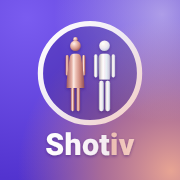
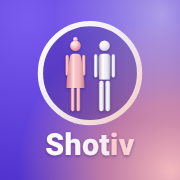
Pink gold palette from the product owner's reference
Colors sampled from the reference image (#EDA8AE..#FDE3E7, deep
#E3939A). The women's theme hero card is now light, glossy pink gold
with dark rose text for contrast; buttons use a deeper rose (#A8525E)
so white text stays readable. Splash woman figure, app icon and the
gain warning use the same pink gold.

Claude-Session: https://claude.ai/code/session_01APeqoeDRZRvZG1wpRJWPM8

Changed region(s): [[0.6111, 0.6944, 1.0, 1.0], [0.3611, 0.1944, 0.5, 0.6389]]

diff --git a/index.html b/index.html
@@ -23,7 +23,7 @@
         <svg class="splash-art" viewBox="0 0 300 300" width="260" height="260">
           <circle class="splash-ring" cx="150" cy="150" r="138" fill="none" stroke="#FFFFFF" stroke-width="9" stroke-linecap="round" transform="rotate(-90 150 150)"/>
         </svg>
-        <div class="fig3d woman"><svg class="fig-svg" viewBox="0 -6 100 240" width="87" height="209"><defs><linearGradient id="w3-body" x1="0" y1="0" x2="1" y2="0"><stop offset="0" stop-color="#9C5862"/><stop offset=".28" stop-color="#E3AFA3"/><stop offset=".40" stop-color="#FCEAE4"/><stop offset=".52" stop-color="#EDC0B4"/><stop offset=".78" stop-color="#C98478"/><stop offset="1" stop-color="#8E4D57"/></linearGradient><radialGradient id="w3-head" cx=".36" cy=".3" r=".78"><stop offset="0" stop-color="#FFF3EE"/><stop offset=".25" stop-color="#F4CDC3"/><stop offset=".65" stop-color="#D4968A"/><stop offset="1" stop-color="#93505A"/></radialGradient><filter id="w3-blur" x="-20%" y="-200%" width="140%" height="500%"><feGaussianBlur stdDeviation="2.4"/></filter></defs><ellipse cx="50" cy="225" rx="42" ry="5" fill="rgba(20,8,70,.38)" filter="url(#w3-blur)"><animate attributeName="rx" values="42;30" calcMode="spline" keyTimes="0;1" keySplines=".65 0 .35 1" begin="0.45s" dur="1.25s" fill="freeze"/></ellipse><rect x="30.0" y="150" width="15" height="72" rx="5.5" fill="url(#w3-body)"><animate attributeName="x" values="30.0;36.0" calcMode="spline" keyTimes="0;1" keySplines=".65 0 .35 1" begin="0.45s" dur="1.25s" fill="freeze"/><animate attributeName="width" values="15;11" calcMode="spline" keyTimes="0;1" keySplines=".65 0 .35 1" begin="0.45s" dur="1.25s" fill="freeze"/></rect><rect x="55.0" y="150" width="15" height="72" rx="5.5" fill="url(#w3-body)"><animate attributeName="x" values="55.0;53.0" calcMode="spline" keyTimes="0;1" keySplines=".65 0 .35 1" begin="0.45s" dur="1.25s" fill="freeze"/><animate attributeName="width" values="15;11" calcMode="spline" keyTimes="0;1" keySplines=".65 0 .35 1" begin="0.45s" dur="1.25s" fill="freeze"/></rect><rect x="5.0" y="52" width="10" height="62" rx="5.0" fill="url(#w3-body)"><animate attributeName="x" values="5.0;20.0" calcMode="spline" keyTimes="0;1" keySplines=".65 0 .35 1" begin="0.45s" dur="1.25s" fill="freeze"/><animate attributeName="width" values="10;10" calcMode="spline" keyTimes="0;1" keySplines=".65 0 .35 1" begin="0.45s" dur="1.25s" fill="freeze"/></rect><rect x="85.0" y="52" width="10" height="62" rx="5.0" fill="url(#w3-body)"><animate attributeName="x" values="85.0;70.0" calcMode="spline" keyTimes="0;1" keySplines=".65 0 .35 1" begin="0.45s" dur="1.25s" fill="freeze"/><animate attributeName="width" values="10;10" calcMode="spline" keyTimes="0;1" keySplines=".65 0 .35 1" begin="0.45s" dur="1.25s" fill="freeze"/></rect><path d="M39.0 48 H61.0 Q73.0 48 74.0 60 C85.0 88 88.0 122 88.0 152 H12.0 C12.0 122 15.0 88 26.0 60 Q27.0 48 39.0 48 Z" fill="url(#w3-body)"><animate attributeName="d" values="M39.0 48 H61.0 Q73.0 48 74.0 60 C85.0 88 88.0 122 88.0 152 H12.0 C12.0 122 15.0 88 26.0 60 Q27.0 48 39.0 48 Z;M46.0 48 H54.0 Q66.0 48 67.0 60 C72.0 88 77.0 122 77.0 152 H23.0 C23.0 122 28.0 88 33.0 60 Q34.0 48 46.0 48 Z" calcMode="spline" keyTimes="0;1" keySplines=".65 0 .35 1" begin="0.45s" dur="1.25s" fill="freeze"/></path><circle cx="50" cy="5" r="7" fill="url(#w3-head)"/><circle cx="50" cy="24" r="16" fill="url(#w3-head)"/></svg></div>
+        <div class="fig3d woman"><svg class="fig-svg" viewBox="0 -6 100 240" width="87" height="209"><defs><linearGradient id="w3-body" x1="0" y1="0" x2="1" y2="0"><stop offset="0" stop-color="#D98990"/><stop offset=".22" stop-color="#EDA8AE"/><stop offset=".38" stop-color="#FDE3E7"/><stop offset=".5" stop-color="#F7C4C8"/><stop offset=".72" stop-color="#F2B8BE"/><stop offset="1" stop-color="#D3818A"/></linearGradient><radialGradient id="w3-head" cx=".36" cy=".3" r=".78"><stop offset="0" stop-color="#FFF0F2"/><stop offset=".3" stop-color="#FBD7DA"/><stop offset=".65" stop-color="#EDA8AE"/><stop offset="1" stop-color="#CF7C86"/></radialGradient><filter id="w3-blur" x="-20%" y="-200%" width="140%" height="500%"><feGaussianBlur stdDeviation="2.4"/></filter></defs><ellipse cx="50" cy="225" rx="42" ry="5" fill="rgba(20,8,70,.38)" filter="url(#w3-blur)"><animate attributeName="rx" values="42;30" calcMode="spline" keyTimes="0;1" keySplines=".65 0 .35 1" begin="0.45s" dur="1.25s" fill="freeze"/></ellipse><rect x="30.0" y="150" width="15" height="72" rx="5.5" fill="url(#w3-body)"><animate attributeName="x" values="30.0;36.0" calcMode="spline" keyTimes="0;1" keySplines=".65 0 .35 1" begin="0.45s" dur="1.25s" fill="freeze"/><animate attributeName="width" values="15;11" calcMode="spline" keyTimes="0;1" keySplines=".65 0 .35 1" begin="0.45s" dur="1.25s" fill="freeze"/></rect><rect x="55.0" y="150" width="15" height="72" rx="5.5" fill="url(#w3-body)"><animate attributeName="x" values="55.0;53.0" calcMode="spline" keyTimes="0;1" keySplines=".65 0 .35 1" begin="0.45s" dur="1.25s" fill="freeze"/><animate attributeName="width" values="15;11" calcMode="spline" keyTimes="0;1" keySplines=".65 0 .35 1" begin="0.45s" dur="1.25s" fill="freeze"/></rect><rect x="5.0" y="52" width="10" height="62" rx="5.0" fill="url(#w3-body)"><animate attributeName="x" values="5.0;20.0" calcMode="spline" keyTimes="0;1" keySplines=".65 0 .35 1" begin="0.45s" dur="1.25s" fill="freeze"/><animate attributeName="width" values="10;10" calcMode="spline" keyTimes="0;1" keySplines=".65 0 .35 1" begin="0.45s" dur="1.25s" fill="freeze"/></rect><rect x="85.0" y="52" width="10" height="62" rx="5.0" fill="url(#w3-body)"><animate attributeName="x" values="85.0;70.0" calcMode="spline" keyTimes="0;1" keySplines=".65 0 .35 1" begin="0.45s" dur="1.25s" fill="freeze"/><animate attributeName="width" values="10;10" calcMode="spline" keyTimes="0;1" keySplines=".65 0 .35 1" begin="0.45s" dur="1.25s" fill="freeze"/></rect><path d="M39.0 48 H61.0 Q73.0 48 74.0 60 C85.0 88 88.0 122 88.0 152 H12.0 C12.0 122 15.0 88 26.0 60 Q27.0 48 39.0 48 Z" fill="url(#w3-body)"><animate attributeName="d" values="M39.0 48 H61.0 Q73.0 48 74.0 60 C85.0 88 88.0 122 88.0 152 H12.0 C12.0 122 15.0 88 26.0 60 Q27.0 48 39.0 48 Z;M46.0 48 H54.0 Q66.0 48 67.0 60 C72.0 88 77.0 122 77.0 152 H23.0 C23.0 122 28.0 88 33.0 60 Q34.0 48 46.0 48 Z" calcMode="spline" keyTimes="0;1" keySplines=".65 0 .35 1" begin="0.45s" dur="1.25s" fill="freeze"/></path><circle cx="50" cy="5" r="7" fill="url(#w3-head)"/><circle cx="50" cy="24" r="16" fill="url(#w3-head)"/></svg></div>
         <div class="fig3d man"><svg class="fig-svg" viewBox="0 -6 100 240" width="87" height="209"><defs><linearGradient id="m3-body" x1="0" y1="0" x2="1" y2="0"><stop offset="0" stop-color="#A9A5BD"/><stop offset=".22" stop-color="#E9E2DE"/><stop offset=".38" stop-color="#FFFFFF"/><stop offset=".5" stop-color="#F6EEF5"/><stop offset=".66" stop-color="#E5EEF3"/><stop offset=".84" stop-color="#D6D2E4"/><stop offset="1" stop-color="#9F9BB6"/></linearGradient><radialGradient id="m3-head" cx=".36" cy=".3" r=".78"><stop offset="0" stop-color="#FFFFFF"/><stop offset=".3" stop-color="#F8F2EF"/><stop offset=".55" stop-color="#EEE8F3"/><stop offset=".8" stop-color="#D9D8E8"/><stop offset="1" stop-color="#A39FBA"/></radialGradient><filter id="m3-blur" x="-20%" y="-200%" width="140%" height="500%"><feGaussianBlur stdDeviation="2.4"/></filter></defs><ellipse cx="50" cy="225" rx="40" ry="5" fill="rgba(20,8,70,.38)" filter="url(#m3-blur)"><animate attributeName="rx" values="40;27" calcMode="spline" keyTimes="0;1" keySplines=".65 0 .35 1" begin="0.45s" dur="1.25s" fill="freeze"/></ellipse><rect x="27.0" y="130" width="19" height="92" rx="7.5" fill="url(#m3-body)"><animate attributeName="x" values="27.0;33.0" calcMode="spline" keyTimes="0;1" keySplines=".65 0 .35 1" begin="0.45s" dur="1.25s" fill="freeze"/><animate attributeName="width" values="19;15" calcMode="spline" keyTimes="0;1" keySplines=".65 0 .35 1" begin="0.45s" dur="1.25s" fill="freeze"/></rect><rect x="54.0" y="130" width="19" height="92" rx="7.5" fill="url(#m3-body)"><animate attributeName="x" values="54.0;52.0" calcMode="spline" keyTimes="0;1" keySplines=".65 0 .35 1" begin="0.45s" dur="1.25s" fill="freeze"/><animate attributeName="width" values="19;15" calcMode="spline" keyTimes="0;1" keySplines=".65 0 .35 1" begin="0.45s" dur="1.25s" fill="freeze"/></rect><rect x="1.0" y="50" width="11" height="70" rx="5.5" fill="url(#m3-body)"><animate attributeName="x" values="1.0;18.0" calcMode="spline" keyTimes="0;1" keySplines=".65 0 .35 1" begin="0.45s" dur="1.25s" fill="freeze"/><animate attributeName="width" values="11;11" calcMode="spline" keyTimes="0;1" keySplines=".65 0 .35 1" begin="0.45s" dur="1.25s" fill="freeze"/></rect><rect x="88.0" y="50" width="11" height="70" rx="5.5" fill="url(#m3-body)"><animate attributeName="x" values="88.0;71.0" calcMode="spline" keyTimes="0;1" keySplines=".65 0 .35 1" begin="0.45s" dur="1.25s" fill="freeze"/><animate attributeName="width" values="11;11" calcMode="spline" keyTimes="0;1" keySplines=".65 0 .35 1" begin="0.45s" dur="1.25s" fill="freeze"/></rect><path d="M35.0 48 H65.0 Q78.0 48 78.0 61 C85.0 78 85.0 112 76.0 126 H24.0 C15.0 112 15.0 78 22.0 61 Q22.0 48 35.0 48 Z" fill="url(#m3-body)"><animate attributeName="d" values="M35.0 48 H65.0 Q78.0 48 78.0 61 C85.0 78 85.0 112 76.0 126 H24.0 C15.0 112 15.0 78 22.0 61 Q22.0 48 35.0 48 Z;M45.0 48 H55.0 Q68.0 48 68.0 61 C68.0 78 68.0 112 66.0 126 H34.0 C32.0 112 32.0 78 32.0 61 Q32.0 48 45.0 48 Z" calcMode="spline" keyTimes="0;1" keySplines=".65 0 .35 1" begin="0.45s" dur="1.25s" fill="freeze"/></path><circle cx="50" cy="24" r="16" fill="url(#m3-head)"/></svg></div>
       </div>
     <div class="splash-brand">

diff --git a/style.css b/style.css
@@ -437,31 +437,41 @@ html.text-large #app { zoom: 1.15; }
 }
 
 /* אזהרה בצבע לפי מגדר */
-.feedback.up.g-female { background: linear-gradient(135deg, #FDF1EE, #F8E2DC); color: #74343E; border-color: #E2B2A6; }
-.feedback.up.g-female .feedback-icon { background: linear-gradient(135deg, #D99A8E, #9C5862); }
+.feedback.up.g-female { background: linear-gradient(115deg, #FDE3E7, #F7C4C8 60%, #F2B8BE); color: #5E2531; border-color: #EDA8AE; }
+.feedback.up.g-female .feedback-icon { background: linear-gradient(135deg, #C46F7B, #A8525E); }
 .feedback.up.g-male { background: linear-gradient(135deg, #FFFFFF, #F1ECF6 55%, #E7EEF4); color: #3A3556; border-color: #CFCADF; }
 .feedback.up.g-male .feedback-icon { background: linear-gradient(135deg, #B5B1C9, #7E7A9A); }
 
 /* ערכת צבעים לפי מגדר: אישה = זהב ורוד, גבר = פנינה */
 html.theme-female {
-  --accent: #9C5862;
-  --accent-deep: #6E3540;
-  --accent-soft: #F9E8E3;
-  --ground: #FCF7F5;
+  --accent: #A8525E;          /* גוון עמוק של הזהב הוורוד לטקסט וכפתורים (ניגודיות טובה) */
+  --accent-deep: #6E2F3A;
+  --accent-soft: #FBE3E6;
+  --ground: #FFF8F8;
 }
-html.theme-female .next-shot,
-html.theme-female .btn.primary {
-  background: linear-gradient(135deg, #B0707A 0%, #9C5862 45%, #844652 100%);
+/* הכרטיס הראשי בזהב ורוד בהיר ומבריק, לפי דוגמת הצבע */
+html.theme-female .next-shot {
+  background: linear-gradient(115deg,
+    #EDA8AE 0%, #F4BEC3 14%, #FBD7DA 24%, #FDE3E7 30%, #F4BEC3 42%,
+    #F7C4C8 55%, #FDDDE1 66%, #F2B8BE 80%, #E3939A 100%);
+  color: #5E2531;
+  border: 1px solid #EFC2C6;
+  box-shadow: 0 12px 26px -16px rgba(168, 82, 94, .6);
 }
-html.theme-female .next-shot { box-shadow: 0 12px 26px -14px rgba(132, 70, 82, .75); }
+html.theme-female .next-shot .label-light { opacity: 1; color: #7A3644; }
+html.theme-female .next-shot .btn.light { background: linear-gradient(135deg, #B35C68, #9E4A57); color: #FFFFFF; }
+html.theme-female .next-shot .last-shot { color: #6E2F3A; }
+html.theme-female .btn.primary { background: linear-gradient(135deg, #B35C68 0%, #A8525E 50%, #934450 100%); }
 html.theme-female .next-shot::after,
 html.theme-male .next-shot::after {
   content: ""; position: absolute; inset: 0; border-radius: inherit; pointer-events: none;
-  background: linear-gradient(115deg, transparent 30%, rgba(255, 255, 255, .22) 45%, transparent 60%);
+  background: linear-gradient(115deg, transparent 30%, rgba(255, 255, 255, .35) 45%, transparent 60%);
 }
 html.theme-female .next-shot, html.theme-male .next-shot { position: relative; overflow: hidden; }
-html.theme-female .wordmark { color: #9C5862; }
-html.theme-female .wordmark .wm-b { color: #C98478; }
+html.theme-female .wordmark { color: #A8525E; }
+html.theme-female .wordmark .wm-b { color: #E3939A; }
+html.theme-female .feedback.up.g-female { background: linear-gradient(115deg, #FDE3E7, #F7C4C8 60%, #F2B8BE); color: #5E2531; border-color: #EDA8AE; }
+html.theme-female .feedback.up.g-female .feedback-icon { background: linear-gradient(135deg, #C46F7B, #A8525E); }
 
 html.theme-male {
   --accent: #5E5A7A;

diff --git a/app.js b/app.js
@@ -360,7 +360,7 @@ function svgEl(tag, attrs) {
 
 function warnColor(data) {
   const g = data.profile.gender;
-  if (g === 'female') return '#B86D72'; // זהב ורוד
+  if (g === 'female') return '#D9818B'; // זהב ורוד
   if (g === 'male') return '#8C88A6';   // פנינה (גוון כסוף כדי שייראה על רקע לבן)
   return '#E07A2E';
 }
@@ -729,7 +729,7 @@ function downloadCalendar(data) {
   toast('פתח את הקובץ כדי להוסיף ליומן');
 }
 
-const THEME_COLORS = { female: '#9C5862', male: '#5E5A7A' };
+const THEME_COLORS = { female: '#EDA8AE', male: '#5E5A7A' };
 function applyTheme(gender) {
   const root = document.documentElement;
   root.classList.toggle('theme-female', gender === 'female');

diff --git a/sw.js b/sw.js
@@ -1,6 +1,6 @@
 // Service Worker: שומר את קבצי האפליקציה כדי שתעבוד גם בלי אינטרנט.
 // בכל שינוי בקבצים מעלים את מספר הגרסה, כדי שהטלפון יוריד את החדשים.
-const CACHE = 'shotiv-v22';
+const CACHE = 'shotiv-v23';
 const FILES = [
   './',
   'index.html',
